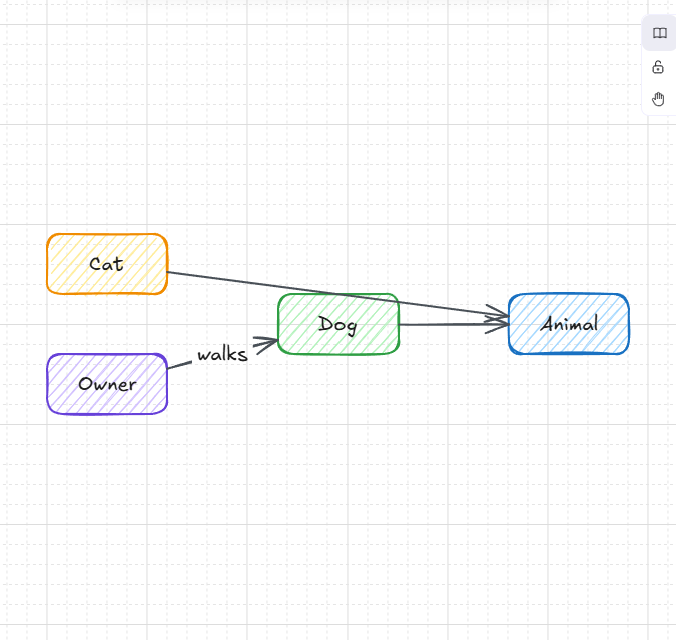
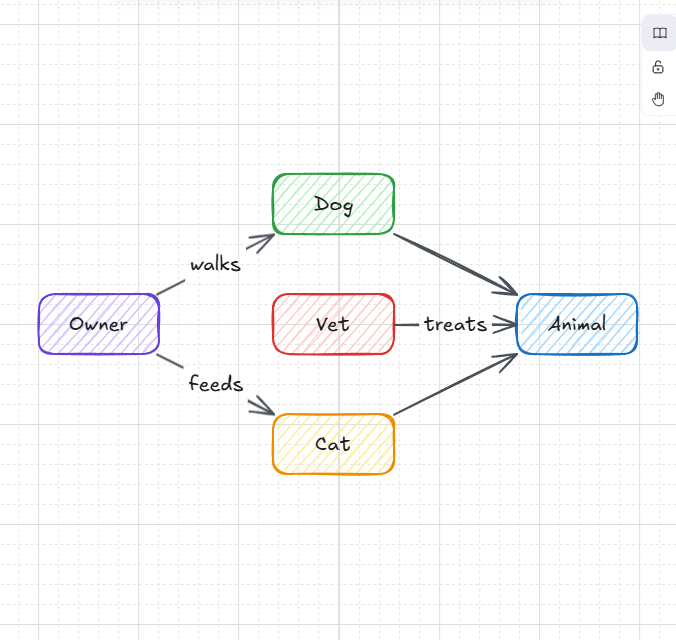
fix: stop class and ER diagram layouts from crowding
tidyLayout now places each source just before its nearest target. Arrows
that span columns reserve a slot in every column they pass through and
are routed around the shapes there. Columns get repeated barycenter
sweeps, keeping the order with the fewest crossings. Adds 3 unit tests
and re-shoots the README class and ER images.

Claude-Session: https://claude.ai/code/session_01EhoBK3Lz7LWfxVRPS77mAQ

diff --git a/src/lib/diagram-layout.ts b/src/lib/diagram-layout.ts
@@ -1,10 +1,11 @@
 /**
  * Tidy-up (G7): a small layered layout for flow diagrams. Shapes connected by
- * arrows are ranked left to right by longest path from the sources, each column
- * is ordered by its predecessors' positions (one barycenter sweep), and columns
- * are centred vertically. Labels move with their shapes; arrows keep their
- * bindings and are re-routed as straight lines. Group frames, free text and
- * unconnected lines are left where they are.
+ * arrows are ranked left to right by longest path, with sources pulled next to
+ * their targets. Arrows spanning several columns get an empty slot in each column
+ * they pass through; columns are ordered by barycenter sweeps (keeping the order
+ * with fewest crossings) and centred vertically. Labels move with their shapes;
+ * arrows keep their bindings and are re-routed as straight lines, or through
+ * their slots. Group frames, free text and unconnected lines are left where they are.
  */
 
 type El = {
@@ -26,6 +27,8 @@ type Box = { x: number; y: number; width: number; height: number };
 const SHAPES = new Set(["rectangle", "ellipse", "diamond"]);
 const COLUMN_GAP = 110;
 const ROW_GAP = 60;
+/** Height of the slot an arrow takes when it passes through a column. */
+const DUMMY_HEIGHT = 24;
 
 const center = (b: Box) => ({ x: b.x + b.width / 2, y: b.y + b.height / 2 });
 
@@ -86,23 +89,93 @@ export function tidyLayout<T extends El>(elements: T[]): T[] {
   };
   for (const n of byTopY) if ((indeg.get(n.id) ?? 0) === 0) visit(n.id, 0);
   for (const n of byTopY) if (!rank.has(n.id)) visit(n.id, 0);
+  // A source sits just before its nearest target, so its arrows don't span columns.
+  for (const n of byTopY) {
+    if ((indeg.get(n.id) ?? 0) > 0) continue;
+    const later = (out.get(n.id) ?? []).map((t) => rank.get(t)!).filter((r) => r > rank.get(n.id)!);
+    if (later.length) rank.set(n.id, Math.min(...later) - 1);
+  }
 
-  // Columns ordered by predecessors' positions, falling back to the original top-to-bottom order.
-  const preds = new Map<string, string[]>();
-  for (const e of edges) preds.set(e.to, [...(preds.get(e.to) ?? []), e.from]);
-  const columns: T[][] = [];
-  for (const n of byTopY) (columns[rank.get(n.id)!] ??= []).push(n);
-  const order = new Map<string, number>();
-  columns.forEach((col, ci) => {
-    if (ci > 0) {
-      const key = (n: T) => {
-        const ps = (preds.get(n.id) ?? []).map((p) => order.get(p)).filter((v): v is number => v !== undefined);
-        return ps.length ? ps.reduce((a, b) => a + b, 0) / ps.length : Number.MAX_SAFE_INTEGER;
-      };
-      col.sort((a, b) => key(a) - key(b));
+  const labelWidth = new Map<string, number>();
+  const labelHeight = new Map<string, number>();
+  for (const el of live) {
+    if (el.type === "text" && el.containerId) {
+      labelWidth.set(el.containerId, el.width);
+      labelHeight.set(el.containerId, el.height);
     }
-    col.forEach((n, i) => order.set(n.id, i));
-  });
+  }
+
+  // Each column holds shapes plus one empty slot for every arrow passing through it,
+  // so an arrow spanning columns is routed between the shapes instead of across them.
+  type Slot = { id: string; width: number; height: number };
+  const columns: Slot[][] = [];
+  for (const n of byTopY) (columns[rank.get(n.id)!] ??= []).push(n);
+  const via = new Map<string, string[]>();
+  const links: { from: string; to: string; arrow: string }[] = [];
+  for (const e of edges) {
+    const r0 = rank.get(e.from)!;
+    const r1 = rank.get(e.to)!;
+    if (r1 <= r0) continue;
+    const ids: string[] = [];
+    let prev = e.from;
+    for (let r = r0 + 1; r < r1; r++) {
+      const id = `${e.arrow.id}#${r}`;
+      const width = labelWidth.get(e.arrow.id) ?? 0;
+      (columns[r] ??= []).push({ id, width, height: Math.max(DUMMY_HEIGHT, labelHeight.get(e.arrow.id) ?? 0) });
+      links.push({ from: prev, to: id, arrow: e.arrow.id });
+      ids.push(id);
+      prev = id;
+    }
+    links.push({ from: prev, to: e.to, arrow: e.arrow.id });
+    via.set(e.arrow.id, ids);
+  }
+
+  // Order each column by its neighbours' positions (barycenter), sweeping right then
+  // left a few times and keeping the order with the fewest crossings.
+  const preds = new Map<string, string[]>();
+  const succs = new Map<string, string[]>();
+  for (const l of links) {
+    preds.set(l.to, [...(preds.get(l.to) ?? []), l.from]);
+    succs.set(l.from, [...(succs.get(l.from) ?? []), l.to]);
+  }
+  const pos = new Map<string, number>();
+  const index = () => columns.forEach((col) => col?.forEach((s, i) => pos.set(s.id, i)));
+  index();
+  const reorder = (col: Slot[] | undefined, neighbours: Map<string, string[]>) => {
+    if (!col) return;
+    const key = new Map(
+      col.map((s) => {
+        const ps = (neighbours.get(s.id) ?? []).map((p) => pos.get(p)!);
+        return [s.id, ps.length ? ps.reduce((a, b) => a + b, 0) / ps.length : pos.get(s.id)!] as const;
+      }),
+    );
+    col.sort((a, b) => key.get(a.id)! - key.get(b.id)!);
+    col.forEach((s, i) => pos.set(s.id, i));
+  };
+  const colOf = new Map<string, number>();
+  columns.forEach((col, ci) => col?.forEach((s) => colOf.set(s.id, ci)));
+  // Links always join adjacent columns; two links in the same gap cross when their ends swap order.
+  const crossings = () => {
+    let count = 0;
+    for (let i = 0; i < links.length; i++)
+      for (let j = i + 1; j < links.length; j++) {
+        const a = links[i]!;
+        const b = links[j]!;
+        if (a.from === b.from || a.to === b.to) continue;
+        const sameGap = colOf.get(a.from) === colOf.get(b.from);
+        if (sameGap && (pos.get(a.from)! - pos.get(b.from)!) * (pos.get(a.to)! - pos.get(b.to)!) < 0) count++;
+      }
+    return count;
+  };
+  let best = { score: crossings(), order: columns.map((c) => c?.slice()) };
+  for (let pass = 0; pass < 4 && best.score > 0; pass++) {
+    for (let c = 1; c < columns.length; c++) reorder(columns[c], preds);
+    for (let c = columns.length - 2; c >= 0; c--) reorder(columns[c], succs);
+    const score = crossings();
+    if (score < best.score) best = { score, order: columns.map((c) => c?.slice()) };
+  }
+  best.order.forEach((col, ci) => (columns[ci] = col!));
+  index();
 
   // Place columns left to right, each centred on the original diagram's vertical centre.
   const originX = Math.min(...nodes.map((n) => n.x));
@@ -110,13 +183,9 @@ export function tidyLayout<T extends El>(elements: T[]): T[] {
   const placed = new Map<string, Box>();
   let x = originX;
   // A gap must fit the widest label on the arrows leaving that column.
-  const labelWidth = new Map<string, number>();
-  for (const el of live) {
-    if (el.type === "text" && el.containerId) labelWidth.set(el.containerId, el.width);
-  }
-  const gapAfter = (col: T[]) => {
+  const gapAfter = (col: Slot[]) => {
     const ids = new Set(col.map((n) => n.id));
-    const widest = Math.max(0, ...edges.filter((e) => ids.has(e.from)).map((e) => labelWidth.get(e.arrow.id) ?? 0));
+    const widest = Math.max(0, ...links.filter((l) => ids.has(l.from)).map((l) => labelWidth.get(l.arrow) ?? 0));
     return Math.max(COLUMN_GAP, widest + 60);
   };
   for (const col of columns) {
@@ -174,6 +243,22 @@ export function tidyLayout<T extends El>(elements: T[]): T[] {
           width: Math.abs(end.x - start.x),
           height: dip - Math.min(start.y, end.y),
           points,
+          roundness: { type: 2 },
+        });
+      }
+      const bends = (via.get(e.id) ?? []).map((id) => center(placed.get(id)!));
+      if (bends.length) {
+        const start = edgePoint(from, bends[0]!);
+        const end = edgePoint(to, bends.at(-1)!);
+        const all = [start, ...bends, end];
+        const xs = all.map((p) => p.x);
+        const ys = all.map((p) => p.y);
+        return bump(e, {
+          x: start.x,
+          y: start.y,
+          width: Math.max(...xs) - Math.min(...xs),
+          height: Math.max(...ys) - Math.min(...ys),
+          points: all.map((p) => [p.x - start.x, p.y - start.y] as [number, number]),
           roundness: { type: 2 },
         });
       }

diff --git a/src/lib/diagram-layout.test.ts b/src/lib/diagram-layout.test.ts
@@ -110,6 +110,93 @@ describe("arrow routing", () => {
   });
 });
 
+describe("crowded graphs", () => {
+  const byId = (els: E[]) => Object.fromEntries(els.map((e) => [e.id, e]));
+  // Straight segment a→b crosses box r (Liang–Barsky clip against the box, shrunk by 1px).
+  const crosses = (a: [number, number], b: [number, number], r: E) => {
+    let t0 = 0;
+    let t1 = 1;
+    const d = [b[0] - a[0], b[1] - a[1]];
+    const p = [-d[0]!, d[0]!, -d[1]!, d[1]!];
+    const q = [a[0] - (r.x + 1), r.x + r.width - 1 - a[0], a[1] - (r.y + 1), r.y + r.height - 1 - a[1]];
+    for (let i = 0; i < 4; i++) {
+      if (p[i] === 0) {
+        if (q[i]! < 0) return false;
+      } else {
+        const t = q[i]! / p[i]!;
+        if (p[i]! < 0) t0 = Math.max(t0, t);
+        else t1 = Math.min(t1, t);
+      }
+    }
+    return t0 < t1;
+  };
+  const segments = (a: E) => {
+    const pts = (a.points as [number, number][]).map(([x, y]) => [a.x + x, a.y + y] as [number, number]);
+    return pts.slice(1).map((p, i) => [pts[i]!, p] as const);
+  };
+  const noArrowThroughShapes = (out: E[]) => {
+    const rects = shapes(out);
+    for (const a of out.filter((e) => e.type === "arrow")) {
+      const ends = [a.startBinding?.elementId, a.endBinding?.elementId];
+      for (const r of rects.filter((r) => !ends.includes(r.id)))
+        for (const [p, q] of segments(a)) expect(crosses(p, q, r), `${a.id} through ${r.id}`).toBe(false);
+    }
+  };
+
+  it("puts a source next to its target instead of spanning columns (ER: PRODUCT → LINE_ITEM)", () => {
+    const out = tidyLayout([
+      ...box("customer", 0, 0),
+      ...box("order", 0, 100),
+      ...box("item", 0, 200),
+      ...box("product", 0, 300),
+      arrow("places", "customer", "order"),
+      arrow("contains", "order", "item"),
+      arrow("listed", "product", "item"),
+    ]);
+    const s = byId(out);
+    expect(s.product!.x).toBe(s.order!.x);
+    noArrowThroughShapes(out);
+  });
+
+  it("routes an edge that must span columns around the shapes in between", () => {
+    // a → b → c → d, plus a → d: the long edge must not cut through b or c.
+    const out = tidyLayout([
+      ...box("a", 0, 0),
+      ...box("b", 0, 100),
+      ...box("c", 0, 200),
+      ...box("d", 0, 300),
+      arrow("ab", "a", "b"),
+      arrow("bc", "b", "c"),
+      arrow("cd", "c", "d"),
+      arrow("ad", "a", "d"),
+    ]);
+    const ad = byId(out).ad!;
+    expect((ad.points as unknown[]).length).toBeGreaterThan(2);
+    expect(ad.endBinding).toEqual({ elementId: "d" });
+    noArrowThroughShapes(out);
+  });
+
+  it("orders columns to avoid needless crossings (class: Owner walks Dog, feeds Cat)", () => {
+    const out = tidyLayout([
+      ...box("cat", 0, 0),
+      ...box("vet", 0, 100),
+      ...box("dog", 0, 200),
+      ...box("owner", 0, 300),
+      ...box("animal", 0, 400),
+      arrow("i1", "dog", "animal"),
+      arrow("i2", "cat", "animal"),
+      arrow("walks", "owner", "dog"),
+      arrow("feeds", "owner", "cat"),
+      arrow("treats", "vet", "animal"),
+    ]);
+    const s = byId(out);
+    expect(s.vet!.x).toBe(s.dog!.x);
+    noArrowThroughShapes(out);
+    const rects = shapes(out);
+    for (const a of rects) for (const b of rects) if (a.id < b.id) expect(overlap(a, b), `${a.id}/${b.id}`).toBe(false);
+  });
+});
+
 describe("styleElements", () => {
   it("treats Mermaid's grey fills as unset and colours repeated labels the same", async () => {
     const { styleElements } = await import("./diagram-style");

diff --git a/docs/VERIFICATION.md b/docs/VERIFICATION.md
@@ -384,3 +384,19 @@ Note: the test reset now also clears the shape library, so library state doesn't
 Fixed during acceptance: the PDF task list printed ☐ on its own line (now a flex row); selecting an embedded diagram as a node showed a stray "Ask AI" button (now only text selections show it). The full suite passed again after both fixes.
 
 Spec changes in v1.1, all flagged above: E2E-31 normalises clipboard line endings (Windows); E2E-33/34 also assert *where* the new block lands (strengthened, not weakened). No assertion was weakened.
+
+## Fix: class and ER diagram layout crowding (2026-09-25)
+
+Problem: with more than about four nodes, class and ER diagrams laid out by `tidyLayout` had arrows cutting through shapes and colliding labels. The causes: sources were always placed in column 0, so their edges spanned several columns as straight lines; and columns got only one barycenter sweep.
+
+Fix (`src/lib/diagram-layout.ts`):
+- A source is placed just before its nearest target.
+- An arrow spanning several columns reserves an empty slot in each column it passes through, and is routed as a polyline through those slots.
+- Columns get up to four down/up barycenter sweeps, keeping the order with the fewest crossings.
+
+- `pnpm typecheck && pnpm test`: pass, 87/87 (3 new tests under "crowded graphs": a source placed next to its target, a long edge routed around shapes, and no arrows through shapes or overlapping shapes in the 5-class example; all three failed before the fix).
+- `docker compose up -d --build`, then `BASE_URL=http://127.0.0.1:3000 pnpm test:e2e`: 49/49 pass.
+- MCP check against the container, redrawing through the Mermaid source panel:
+  - 5-class (Owner/Dog/Cat/Vet/Animal) and 4-entity ER (CUSTOMER/ORDER/LINE_ITEM/PRODUCT): no arrow crosses a shape, and no labels overlap.
+  - 8-class and 7-entity stress diagrams: clean, apart from one crossing that is inherent to a left-to-right layout (Car/Truck → Vehicle/Engine).
+- README images `type-class.png` and `type-er.png` were re-shot with the previously crowded diagrams.

diff --git a/docs/KIT_FEEDBACK.md b/docs/KIT_FEEDBACK.md
@@ -150,5 +150,5 @@ Tags: **[env]** machine/setup · **[contract]** E2E_TESTS.md · **[prd]** PRD ga
 
 ### 2026-09-25 · README
 
-39. **[process] README screenshots had to be re-shot from scratch.** The build-time screenshots were unusable for a README: a mix of UI generations, the Next.js dev badge, a menu caught mid-fade, placeholder "Mock Title" chats, and toy-sized mock diagrams. Class and ER diagram layouts still show crossing or crowded edges with more than about four nodes (a real gap that small mock scripts never exercised).
+39. **[process] README screenshots had to be re-shot from scratch.** The build-time screenshots were unusable for a README: a mix of UI generations, the Next.js dev badge, a menu caught mid-fade, placeholder "Mock Title" chats, and toy-sized mock diagrams. Class and ER diagram layouts showed crossing or crowded edges with more than about four nodes, a real gap that the small mock scripts never exercised (since fixed: see VERIFICATION.md).
     - *Kit change:* add a final "README & showcase" stage: a seeded demo script (rich doc, named chats, larger diagrams of each type), shot against the production build at a fixed viewport into a committed `docs/images/`. Add a mock script with a 6+ node class diagram and ER diagram to E2E so layout crowding is caught during the build.
